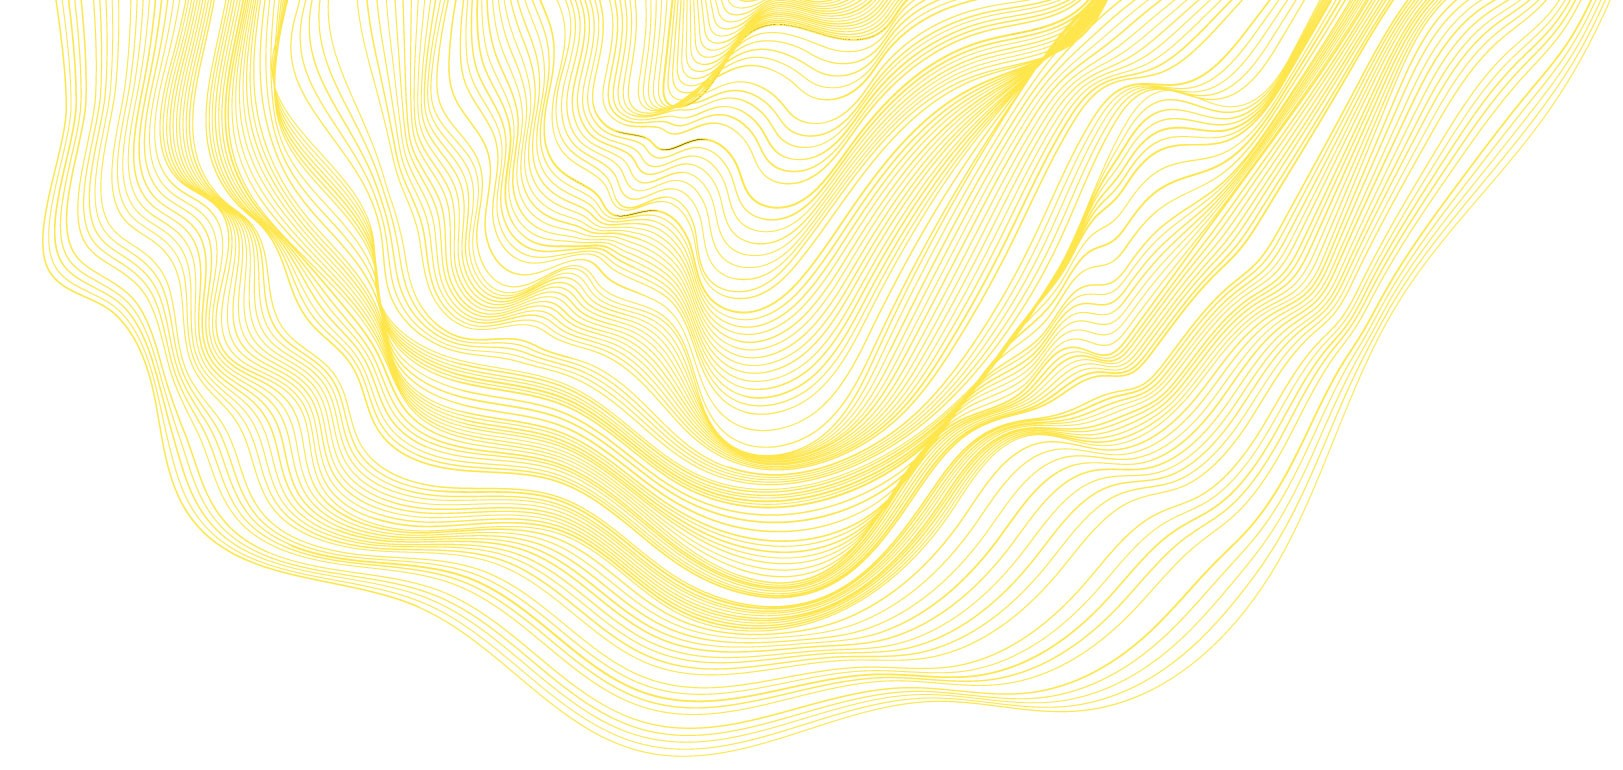
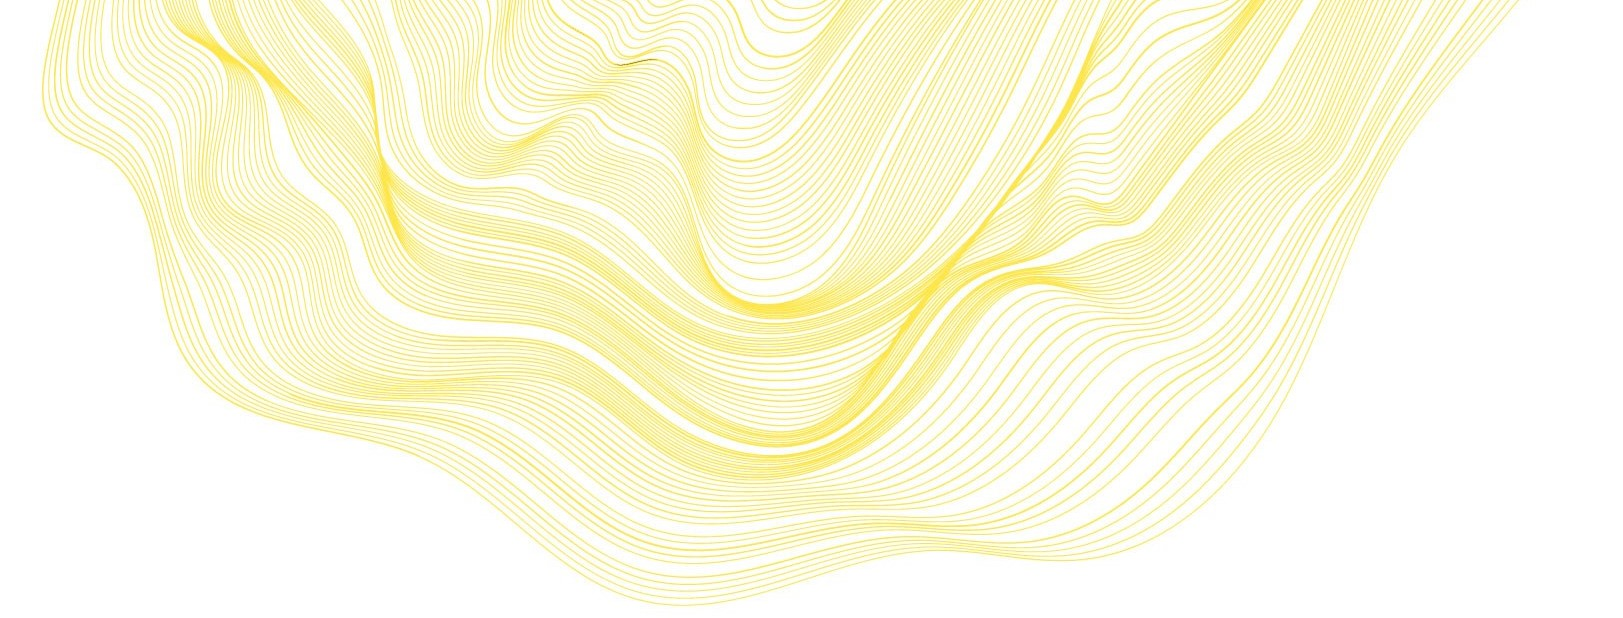
rimpicciolita immagine copertina

diff --git a/style/portfolio.css b/style/portfolio.css
@@ -122,7 +122,7 @@ nav .active:visited {
   grid-column: 1/2;
   grid-row: 1/2;
   display: grid;
-  grid-template-columns: 8rem max-content;
+  grid-template-columns: 7rem max-content;
 }
 .logo-main-img img {
   width: 95%;
@@ -137,8 +137,8 @@ nav .active:visited {
   align-self: end;
   font-family: "Assistant", sans-serif;
   font-weight: 500;
-  letter-spacing: 0.0514285714rem;
-  font-size: 1.7142857143rem;
+  letter-spacing: 0.045rem;
+  font-size: 1.5rem;
 }
 
 .scritta2-main-img {
@@ -147,8 +147,8 @@ nav .active:visited {
   align-self: start;
   font-family: "Encode Sans Condensed", sans-serif;
   font-weight: 200;
-  font-size: 1.7142857143rem;
-  letter-spacing: -0.0342857143rem;
+  font-size: 1.5rem;
+  letter-spacing: -0.03rem;
 }
 
 /*# sourceMappingURL=portfolio.css.map */

diff --git a/style/index.css b/style/index.css
@@ -122,7 +122,7 @@ nav .active:visited {
   grid-column: 1/2;
   grid-row: 1/2;
   display: grid;
-  grid-template-columns: 8rem max-content;
+  grid-template-columns: 7rem max-content;
 }
 .logo-main-img img {
   width: 95%;
@@ -137,8 +137,8 @@ nav .active:visited {
   align-self: end;
   font-family: "Assistant", sans-serif;
   font-weight: 500;
-  letter-spacing: 0.0514285714rem;
-  font-size: 1.7142857143rem;
+  letter-spacing: 0.045rem;
+  font-size: 1.5rem;
 }
 
 .scritta2-main-img {
@@ -147,8 +147,8 @@ nav .active:visited {
   align-self: start;
   font-family: "Encode Sans Condensed", sans-serif;
   font-weight: 200;
-  font-size: 1.7142857143rem;
-  letter-spacing: -0.0342857143rem;
+  font-size: 1.5rem;
+  letter-spacing: -0.03rem;
 }
 
 .intro-emozionale {

diff --git a/style/sass/_main-logo.scss b/style/sass/_main-logo.scss
@@ -11,7 +11,7 @@
   grid-row: 1/2;
 }
 
-$size-logo: 8rem;
+$size-logo: 7rem;
 
 .logo-main-img {
   grid-column: 1/2;
